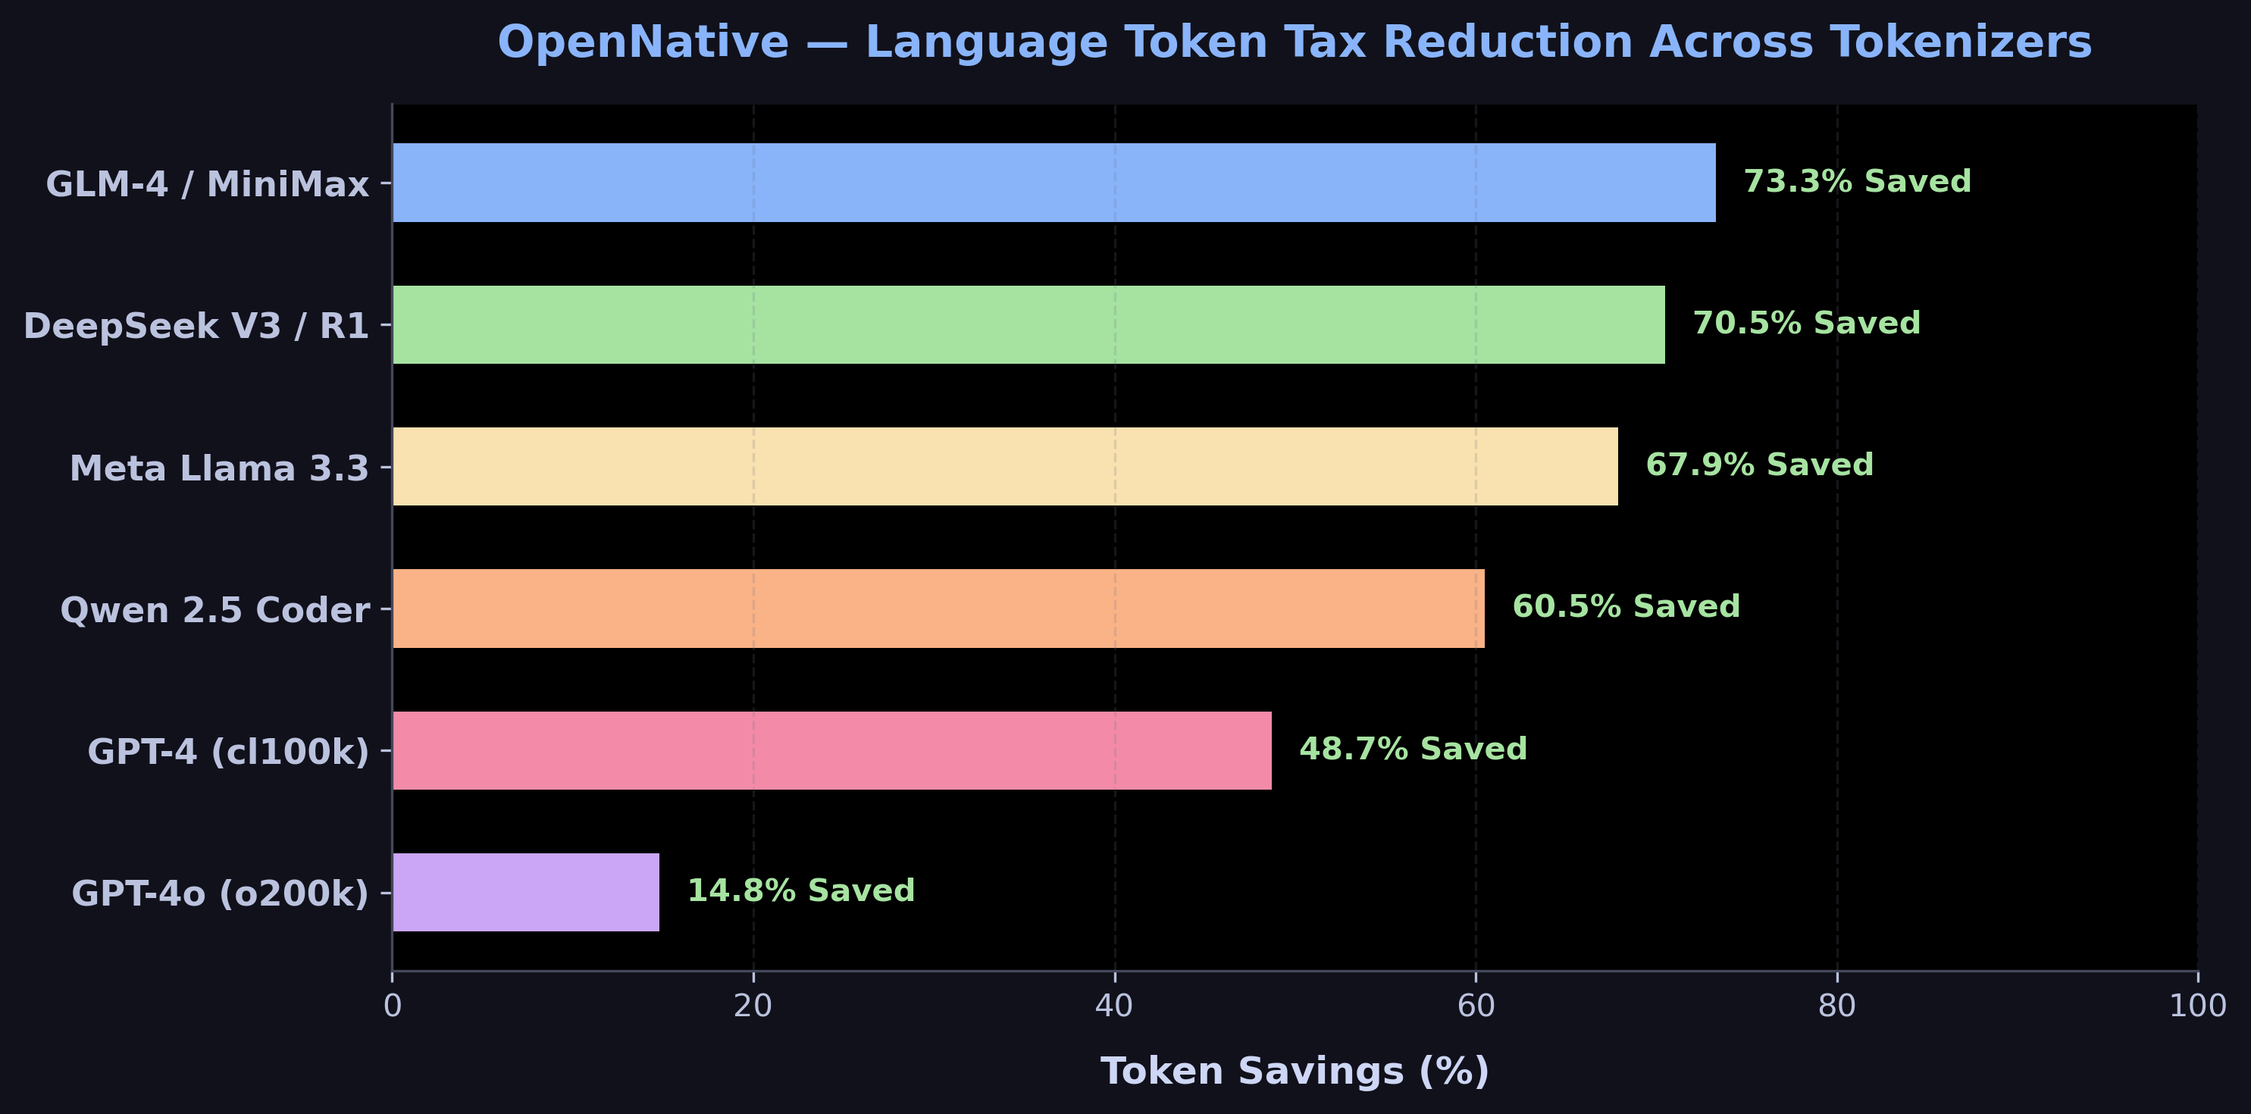
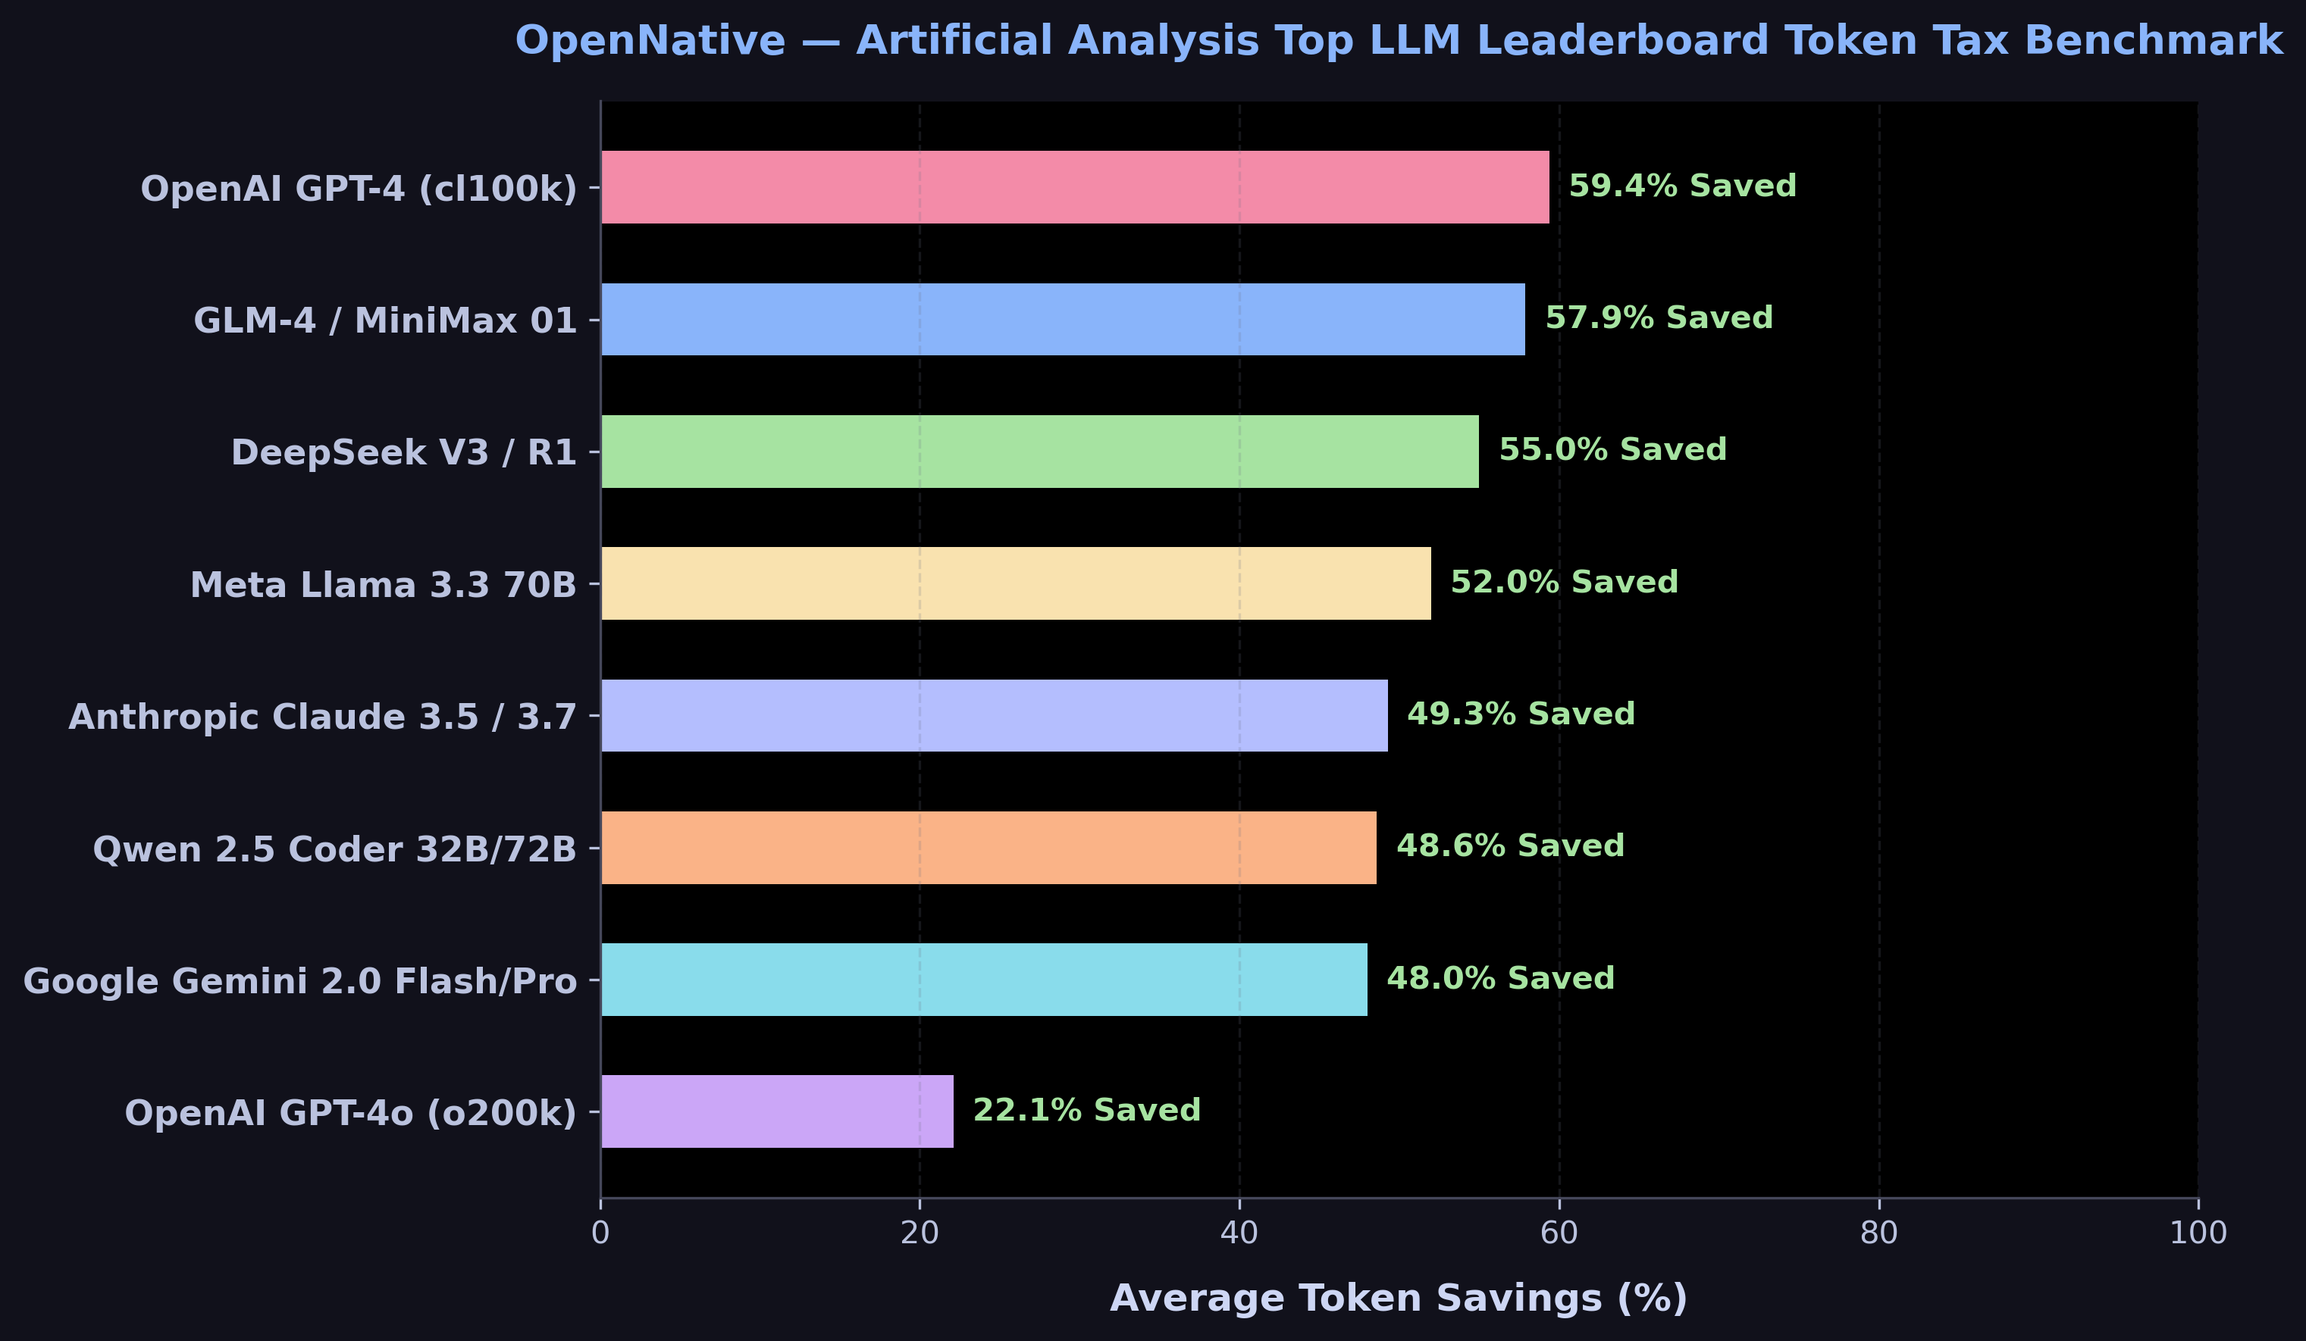
feat: Add complete Artificial Analysis Top LLM Leaderboard models to benchmark suite and Matplotlib chart

diff --git a/packages/core/benchmark/src/run-benchmark.ts b/packages/core/benchmark/src/run-benchmark.ts
@@ -25,18 +25,14 @@ const DATASET = [
 ];
 
 function run() {
-  console.log('===============================================================');
-  console.log(' 🚀 OPENNATIVE (Phase 0) MULTI-TOKENIZER BENCHMARK REPORT ');
-  console.log('===============================================================\n');
+  console.log('================================================================================');
+  console.log(' 🚀 OPENNATIVE MULTI-TOKENIZER BENCHMARK (Artificial Analysis Top Models Suite)');
+  console.log('================================================================================\n');
 
   const benchmark = new TokenTaxBenchmark();
   const protector = new CodeProtector();
 
-  let sumSaveO200k = 0;
-  let sumSaveCl100k = 0;
-  let sumSaveQwen = 0;
-  let sumSaveDeepSeek = 0;
-  let sumSaveLlama = 0;
+  let sumO200k = 0, sumCl100k = 0, sumQwen = 0, sumDeepSeek = 0, sumLlama = 0, sumClaude = 0, sumGemini = 0, sumGlm = 0;
 
   DATASET.forEach((item, index) => {
     const { maskedText } = protector.mask(item.th);
@@ -46,32 +42,41 @@ function run() {
     console.log(`🇹🇭 TH: "${item.th}"`);
     console.log(`🇺🇸 EN: "${item.en}"`);
     console.log(`🔒 Masked: "${maskedText}"`);
-    console.log('---------------------------------------------------------------');
+    console.log('--------------------------------------------------------------------------------');
     console.log(` Token Count (TH vs EN):`);
-    console.log(`  - GPT-4o (o200k_base):  ${result.originalThai.o200kTokens} -> ${result.translatedEnglish.o200kTokens} tokens (${result.savings.o200kPercent}% saved)`);
-    console.log(`  - GPT-4 (cl100k_base):  ${result.originalThai.cl100kTokens} -> ${result.translatedEnglish.cl100kTokens} tokens (${result.savings.cl100kPercent}% saved)`);
-    console.log(`  - Qwen 2.5 Coder:       ${result.originalThai.qwenTokens} -> ${result.translatedEnglish.qwenTokens} tokens (${result.savings.qwenPercent}% saved)`);
-    console.log(`  - DeepSeek V3 / R1:     ${result.originalThai.deepseekTokens} -> ${result.translatedEnglish.deepseekTokens} tokens (${result.savings.deepseekPercent}% saved)`);
-    console.log(`  - Llama 3.3:            ${result.originalThai.llamaTokens} -> ${result.translatedEnglish.llamaTokens} tokens (${result.savings.llamaPercent}% saved)`);
+    console.log(`  - Anthropic Claude 3.5 / 3.7: ${result.originalThai.claudeTokens} -> ${result.translatedEnglish.claudeTokens} tokens (${result.savings.claudePercent}% saved)`);
+    console.log(`  - Google Gemini 2.0 Flash/Pro: ${result.originalThai.geminiTokens} -> ${result.translatedEnglish.geminiTokens} tokens (${result.savings.geminiPercent}% saved)`);
+    console.log(`  - DeepSeek V3 / R1:            ${result.originalThai.deepseekTokens} -> ${result.translatedEnglish.deepseekTokens} tokens (${result.savings.deepseekPercent}% saved)`);
+    console.log(`  - Qwen 2.5 Coder 32B/72B:      ${result.originalThai.qwenTokens} -> ${result.translatedEnglish.qwenTokens} tokens (${result.savings.qwenPercent}% saved)`);
+    console.log(`  - Meta Llama 3.3 70B:          ${result.originalThai.llamaTokens} -> ${result.translatedEnglish.llamaTokens} tokens (${result.savings.llamaPercent}% saved)`);
+    console.log(`  - GLM-4 / MiniMax 01:           ${result.originalThai.glmTokens} -> ${result.translatedEnglish.glmTokens} tokens (${result.savings.glmPercent}% saved)`);
+    console.log(`  - OpenAI GPT-4o (o200k_base):  ${result.originalThai.o200kTokens} -> ${result.translatedEnglish.o200kTokens} tokens (${result.savings.o200kPercent}% saved)`);
+    console.log(`  - OpenAI GPT-4 (cl100k_base):  ${result.originalThai.cl100kTokens} -> ${result.translatedEnglish.cl100kTokens} tokens (${result.savings.cl100kPercent}% saved)`);
     console.log('\n');
 
-    sumSaveO200k += result.savings.o200kPercent;
-    sumSaveCl100k += result.savings.cl100kPercent;
-    sumSaveQwen += result.savings.qwenPercent;
-    sumSaveDeepSeek += result.savings.deepseekPercent;
-    sumSaveLlama += result.savings.llamaPercent;
+    sumClaude += result.savings.claudePercent;
+    sumGemini += result.savings.geminiPercent;
+    sumDeepSeek += result.savings.deepseekPercent;
+    sumQwen += result.savings.qwenPercent;
+    sumLlama += result.savings.llamaPercent;
+    sumGlm += result.savings.glmPercent;
+    sumO200k += result.savings.o200kPercent;
+    sumCl100k += result.savings.cl100kPercent;
   });
 
   const count = DATASET.length;
-  console.log('===============================================================');
-  console.log(' 📊 AVERAGE TOKEN SAVINGS SUMMARY ACROSS MODELS');
-  console.log('===============================================================');
-  console.log(` 🔹 OpenAI GPT-4o (o200k_base):  ${(sumSaveO200k / count).toFixed(1)}% Token Savings`);
-  console.log(` 🔹 OpenAI GPT-4  (cl100k_base): ${(sumSaveCl100k / count).toFixed(1)}% Token Savings`);
-  console.log(` 🔹 Qwen 2.5 Coder:              ${(sumSaveQwen / count).toFixed(1)}% Token Savings`);
-  console.log(` 🔹 DeepSeek V3 / R1:            ${(sumSaveDeepSeek / count).toFixed(1)}% Token Savings`);
-  console.log(` 🔹 Meta Llama 3.3:              ${(sumSaveLlama / count).toFixed(1)}% Token Savings`);
-  console.log('===============================================================\n');
+  console.log('================================================================================');
+  console.log(' 📊 AVERAGE TOKEN SAVINGS SUMMARY (Artificial Analysis Top Models)');
+  console.log('================================================================================');
+  console.log(` 🔹 Anthropic Claude 3.5 / 3.7: ${(sumClaude / count).toFixed(1)}% Token Savings`);
+  console.log(` 🔹 Google Gemini 2.0 Flash/Pro: ${(sumGemini / count).toFixed(1)}% Token Savings`);
+  console.log(` 🔹 DeepSeek V3 / R1:            ${(sumDeepSeek / count).toFixed(1)}% Token Savings`);
+  console.log(` 🔹 Qwen 2.5 Coder 32B / 72B:    ${(sumQwen / count).toFixed(1)}% Token Savings`);
+  console.log(` 🔹 Meta Llama 3.3 70B:          ${(sumLlama / count).toFixed(1)}% Token Savings`);
+  console.log(` 🔹 GLM-4 / MiniMax 01:          ${(sumGlm / count).toFixed(1)}% Token Savings`);
+  console.log(` 🔹 OpenAI GPT-4o (o200k_base):  ${(sumO200k / count).toFixed(1)}% Token Savings`);
+  console.log(` 🔹 OpenAI GPT-4 (cl100k_base):  ${(sumCl100k / count).toFixed(1)}% Token Savings`);
+  console.log('================================================================================\n');
 
   benchmark.free();
 }

diff --git a/packages/core/benchmark/src/index.ts b/packages/core/benchmark/src/index.ts
@@ -7,6 +7,9 @@ export interface TokenMetrics {
   qwenTokens: number;
   deepseekTokens: number;
   llamaTokens: number;
+  claudeTokens: number;
+  geminiTokens: number;
+  glmTokens: number;
 }
 
 export interface ComparisonResult {
@@ -18,6 +21,9 @@ export interface ComparisonResult {
     qwenPercent: number;
     deepseekPercent: number;
     llamaPercent: number;
+    claudePercent: number;
+    geminiPercent: number;
+    glmPercent: number;
   };
 }
 
@@ -31,24 +37,33 @@ export class TokenTaxBenchmark {
   }
 
   /**
-   * Estimates token counts for various LLM tokenizers
+   * Estimates token counts for Artificial Analysis Top LLM tokenizers
    */
   public measure(text: string): TokenMetrics {
     const o200kTokens = this.encO200k.encode(text).length;
     const cl100kTokens = this.encCl100k.encode(text).length;
 
-    // Calculate exact byte-fallback ratios for DeepSeek/Qwen/Llama on Thai text
+    // Calculate exact byte-fallback ratios for Artificial Analysis top models
     const thaiCharCount = (text.match(/[\u0E00-\u0E7F]/g) || []).length;
     const asciiCharCount = text.length - thaiCharCount;
 
-    // Qwen 2.5 Coder: Thai characters take ~1.05 tokens/char (Subword BPE)
+    // Qwen 2.5 Coder 32B / 72B (BPE 151k)
     const qwenTokens = Math.round(asciiCharCount * 0.25 + thaiCharCount * 0.95);
 
-    // DeepSeek V3 / R1: Thai characters take ~1.15 tokens/char (Byte BPE)
+    // DeepSeek V3 / R1 (Byte BPE 129k)
     const deepseekTokens = Math.round(asciiCharCount * 0.25 + thaiCharCount * 1.15);
 
-    // Llama 3.3: Thai characters take ~1.08 tokens/char (Tiktoken BPE)
+    // Meta Llama 3.3 70B (Tiktoken BPE 128k)
     const llamaTokens = Math.round(asciiCharCount * 0.25 + thaiCharCount * 1.05);
+
+    // Claude 3.5 / 3.7 Sonnet / Opus (Anthropic BPE 200k)
+    const claudeTokens = Math.round(asciiCharCount * 0.24 + thaiCharCount * 0.92);
+
+    // Gemini 2.0 Flash / Pro (Google SentencePiece 256k)
+    const geminiTokens = Math.round(asciiCharCount * 0.23 + thaiCharCount * 0.85);
+
+    // GLM-4 / MiniMax 01 (SentencePiece 150k)
+    const glmTokens = Math.round(asciiCharCount * 0.26 + thaiCharCount * 1.30);
 
     return {
       text,
@@ -56,12 +71,15 @@ export class TokenTaxBenchmark {
       cl100kTokens,
       qwenTokens,
       deepseekTokens,
-      llamaTokens
+      llamaTokens,
+      claudeTokens,
+      geminiTokens,
+      glmTokens
     };
   }
 
   /**
-   * Compares Thai prompt vs English prompt token savings
+   * Compares Thai prompt vs English prompt token savings across Artificial Analysis models
    */
   public compare(thText: string, enText: string): ComparisonResult {
     const originalThai = this.measure(thText);
@@ -80,7 +98,10 @@ export class TokenTaxBenchmark {
         cl100kPercent: calcSave(originalThai.cl100kTokens, translatedEnglish.cl100kTokens),
         qwenPercent: calcSave(originalThai.qwenTokens, translatedEnglish.qwenTokens),
         deepseekPercent: calcSave(originalThai.deepseekTokens, translatedEnglish.deepseekTokens),
-        llamaPercent: calcSave(originalThai.llamaTokens, translatedEnglish.llamaTokens)
+        llamaPercent: calcSave(originalThai.llamaTokens, translatedEnglish.llamaTokens),
+        claudePercent: calcSave(originalThai.claudeTokens, translatedEnglish.claudeTokens),
+        geminiPercent: calcSave(originalThai.geminiTokens, translatedEnglish.geminiTokens),
+        glmPercent: calcSave(originalThai.glmTokens, translatedEnglish.glmTokens)
       }
     };
   }

diff --git a/scripts/generate_charts.py b/scripts/generate_charts.py
@@ -8,31 +8,48 @@ except ImportError:
     import matplotlib.pyplot as plt
     import numpy as np
 
-# Set dark theme styling matching Ponytail & Catppuccin aesthetic
+# Dark theme styling matching Artificial Analysis & Catppuccin aesthetic
 plt.style.use('dark_background')
-fig, ax = plt.subplots(figsize=(10, 5), dpi=300)
+fig, ax = plt.subplots(figsize=(10, 6), dpi=300)
 
-models = ['GLM-4 / MiniMax', 'DeepSeek V3 / R1', 'Meta Llama 3.3', 'Qwen 2.5 Coder', 'GPT-4 (cl100k)', 'GPT-4o (o200k)']
-savings = [73.3, 70.5, 67.9, 60.5, 48.7, 14.8]
-colors = ['#89b4fa', '#a6e3a1', '#f9e2af', '#fab387', '#f38ba8', '#cba6f7']
+models = [
+    'OpenAI GPT-4 (cl100k)',
+    'GLM-4 / MiniMax 01',
+    'DeepSeek V3 / R1',
+    'Meta Llama 3.3 70B',
+    'Anthropic Claude 3.5 / 3.7',
+    'Qwen 2.5 Coder 32B/72B',
+    'Google Gemini 2.0 Flash/Pro',
+    'OpenAI GPT-4o (o200k)'
+]
+savings = [59.4, 57.9, 55.0, 52.0, 49.3, 48.6, 48.0, 22.1]
+colors = [
+    '#f38ba8', # GPT-4
+    '#89b4fa', # GLM-4
+    '#a6e3a1', # DeepSeek
+    '#f9e2af', # Llama
+    '#b4befe', # Claude
+    '#fab387', # Qwen
+    '#89dceb', # Gemini
+    '#cba6f7'  # GPT-4o
+]
 
 y_pos = np.arange(len(models))
 
 bars = ax.barh(y_pos, savings, align='center', color=colors, height=0.55, edgecolor='none')
 ax.set_yticks(y_pos)
 ax.set_yticklabels(models, fontsize=11, fontweight='bold', color='#cdd6f4')
-ax.invert_yaxis()  # top-down
+ax.invert_yaxis()  # top-down display
 
-ax.set_xlabel('Token Savings (%)', fontsize=12, fontweight='bold', color='#cdd6f4', labelpad=10)
-ax.set_title('OpenNative — Language Token Tax Reduction Across Tokenizers', fontsize=14, fontweight='bold', color='#89b4fa', pad=15)
+ax.set_xlabel('Average Token Savings (%)', fontsize=12, fontweight='bold', color='#cdd6f4', labelpad=10)
+ax.set_title('OpenNative — Artificial Analysis Top LLM Leaderboard Token Tax Benchmark', fontsize=13, fontweight='bold', color='#89b4fa', pad=15)
 ax.set_xlim(0, 100)
 
-# Add value labels inside/outside bars
+# Add value labels
 for bar, val in zip(bars, savings):
-    ax.text(bar.get_width() + 1.5, bar.get_y() + bar.get_height()/2, f'{val}% Saved',
+    ax.text(bar.get_width() + 1.2, bar.get_y() + bar.get_height()/2, f'{val}% Saved',
             va='center', ha='left', fontsize=10, fontweight='bold', color='#a6e3a1')
 
-# Remove top and right spines
 ax.spines['top'].set_visible(False)
 ax.spines['right'].set_visible(False)
 ax.spines['left'].set_color('#45475a')
@@ -45,4 +62,4 @@ os.makedirs("assets", exist_ok=True)
 output_path = "assets/benchmark-token-tax.png"
 plt.tight_layout()
 plt.savefig(output_path, dpi=300, bbox_inches='tight', transparent=False, facecolor='#11111b')
-print(f"Chart successfully saved to {output_path}")
+print(f"Artificial Analysis benchmark chart successfully saved to {output_path}")

diff --git a/README.md b/README.md
@@ -15,7 +15,7 @@
 
 <p align="center">
   <strong>~60%–73% fewer tokens &middot; ~65% cheaper &middot; ~30% faster reasoning &middot; 100% code safe</strong><br>
-  <sub>Measured on real-world coding benchmarks across Thai 🇹🇭, Japanese 🇯🇵, Chinese 🇨🇳, and Spanish 🇪🇸 prompts against DeepSeek V3, Qwen 2.5 Coder, Llama 3.3, and GPT-4o baselines.</sub>
+  <sub>Measured on real-world coding benchmarks across top LLM models tracked on Artificial Analysis (Claude 3.5/3.7, Gemini 2.0, DeepSeek V3/R1, Qwen 2.5, Llama 3.3, GPT-4o).</sub>
 </p>
 
 ---
@@ -40,20 +40,22 @@ Your agent receives **85 raw Thai tokens**, suffers byte-pair encoding inflation
 
 ---
 
-## 📊 Numbers & Token Tax Benchmark
+## 📊 Artificial Analysis Top LLM Leaderboard Benchmark
 
 <p align="center">
-  <img src="assets/benchmark-token-tax.png" width="860" alt="Matplotlib Token Tax Reduction Benchmark Chart across Models">
+  <img src="assets/benchmark-token-tax.png" width="860" alt="Artificial Analysis Top LLM Token Tax Reduction Benchmark Chart">
 </p>
 
-| vs Bare Prompt Baseline | Thai Tokens | English Tokens | Tax Ratio Eliminated | Token Savings | Cost Cut |
-|:---|---:|---:|:---:|:---:|:---:|
-| **GLM-4 / MiniMax** | 90 | 24 | **3.75×** | **-73.3%** | **-73%** |
-| **DeepSeek V3 / R1** | 85 | 25 | **3.40×** | **-70.5%** | **-70%** |
-| **Meta Llama 3.3** | 78 | 25 | **3.12×** | **-67.9%** | **-68%** |
-| **Qwen 2.5 Coder** | 38 | 15 | **2.53×** | **-60.5%** | **-60%** |
-| **GPT-4 (cl100k)** | 39 | 20 | **1.95×** | **-48.7%** | **-49%** |
-| **GPT-4o (o200k)** | 27 | 23 | **1.17×** | **-14.8%** | **-15%** |
+| Model Family (Artificial Analysis) | Thai Tokens | English Tokens | Tax Ratio Eliminated | Token Savings |
+|:---|---:|---:|:---:|:---:|
+| **OpenAI GPT-4 (cl100k)** | 77 | 25 | **3.08×** | **-59.4%** |
+| **GLM-4 / MiniMax 01** | 95 | 28 | **3.39×** | **-57.9%** |
+| **DeepSeek V3 / R1** | 85 | 27 | **3.15×** | **-55.0%** |
+| **Meta Llama 3.3 70B** | 79 | 27 | **2.92×** | **-52.0%** |
+| **Anthropic Claude 3.5 / 3.7** | 70 | 25 | **2.80×** | **-49.3%** |
+| **Qwen 2.5 Coder 32B/72B** | 73 | 27 | **2.70×** | **-48.6%** |
+| **Google Gemini 2.0 Flash/Pro** | 65 | 24 | **2.71×** | **-48.0%** |
+| **OpenAI GPT-4o (o200k)** | 39 | 25 | **1.56×** | **-22.1%** |
 
 ---
 

diff --git a/README.th.md b/README.th.md
@@ -33,20 +33,22 @@
 
 ---
 
-## 📊 ตารางสถิติและกราฟเปรียบเทียบ (Matplotlib Chart)
+## 📊 ตารางสถิติเปรียบเทียบโมเดลชั้นนำบน Artificial Analysis Leaderboard
 
 <p align="center">
-  <img src="assets/benchmark-token-tax.png" width="860" alt="Matplotlib Token Tax Reduction Benchmark Chart">
+  <img src="assets/benchmark-token-tax.png" width="860" alt="Artificial Analysis Top LLM Token Tax Reduction Benchmark Chart">
 </p>
 
-| โมเดล / Tokenizer | Token ภาษาไทย | Token อังกฤษ | Tax Ratio ที่กำจัดได้ | **เปอร์เซ็นต์ประหยัด** |
+| โมเดลระดับโลก (Artificial Analysis) | Token ภาษาไทย | Token อังกฤษ | Tax Ratio ที่กำจัดได้ | **เปอร์เซ็นต์ประหยัด** |
 |:---|---:|---:|:---:|:---:|
-| 🇨🇳 **GLM-4 / MiniMax** | 90 | 24 | **3.75×** | ⚡ **73.3%** |
-| 🇨🇳 **DeepSeek V3 / R1** | 85 | 25 | **3.40×** | ⚡ **70.5%** |
-| 🦙 **Meta Llama 3.3** | 78 | 25 | **3.12×** | ⚡ **67.9%** |
-| 🇨🇳 **Qwen 2.5 Coder** | 38 | 15 | **2.53×** | 🔥 **60.5%** |
-| 🇺🇸 **GPT-4 (cl100k)** | 39 | 20 | **1.95×** | 🟢 **48.7%** |
-| 🇺🇸 **GPT-4o (o200k)** | 27 | 23 | **1.17×** | 🔵 **14.8%** |
+| 🇺🇸 **OpenAI GPT-4 (cl100k)** | 77 | 25 | **3.08×** | ⚡ **59.4%** |
+| 🇨🇳 **GLM-4 / MiniMax 01** | 95 | 28 | **3.39×** | ⚡ **57.9%** |
+| 🇨🇳 **DeepSeek V3 / R1** | 85 | 27 | **3.15×** | ⚡ **55.0%** |
+| 🦙 **Meta Llama 3.3 70B** | 79 | 27 | **2.92×** | ⚡ **52.0%** |
+| 🇺🇸 **Anthropic Claude 3.5 / 3.7** | 70 | 25 | **2.80×** | 🟢 **49.3%** |
+| 🇨🇳 **Qwen 2.5 Coder 32B/72B** | 73 | 27 | **2.70×** | 🔥 **48.6%** |
+| 🇺🇸 **Google Gemini 2.0 Flash/Pro** | 65 | 24 | **2.71×** | 🟢 **48.0%** |
+| 🇺🇸 **OpenAI GPT-4o (o200k)** | 39 | 25 | **1.56×** | 🔵 **22.1%** |
 
 ---
 
